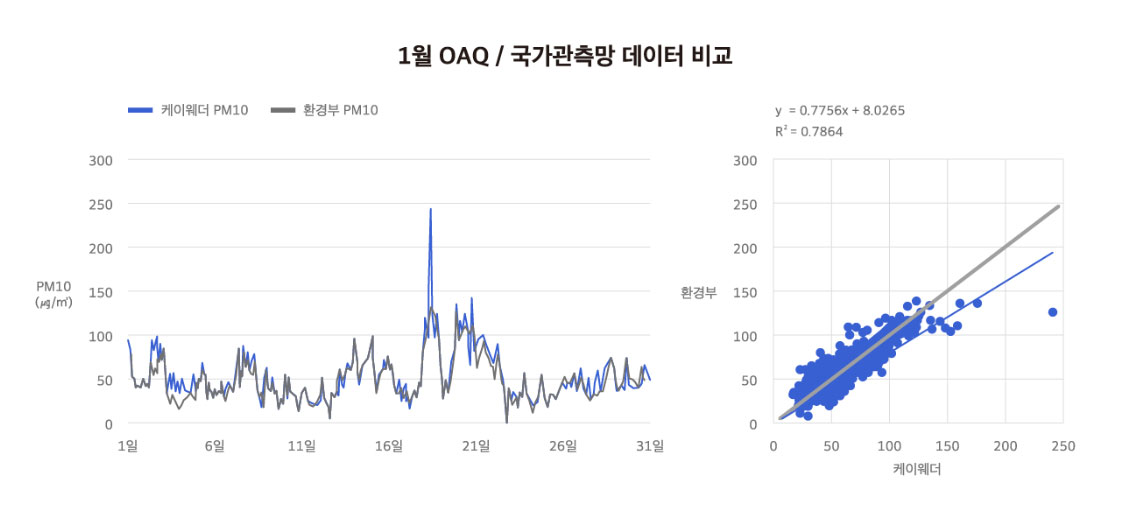
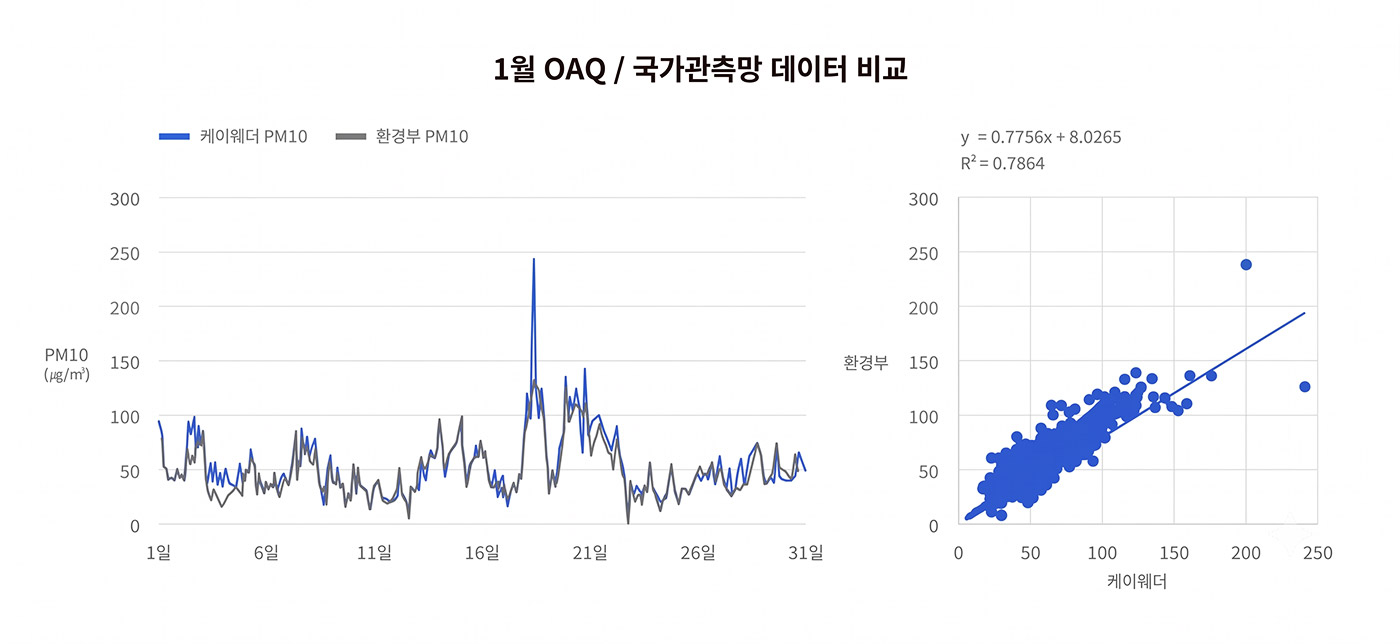
feat: 공기 측정 페이지 본문 구축 및 기상데이터 표 색상 조정
- 공기 측정(measure): OAQ 생활권 서비스·AI 정확도 차트·Airmap 빅데이터/스크린샷 4개 섹션 추가
- 본문 타이틀/서브카피를 AI 기상예보 규격(32px·20px/30px)으로 통일, 정렬 정리
- OAQ 배너 색상을 연혁 탭 활성색(#4762c5)으로, 박스 배경 #eef1fb 적용
- AI 차트·Airmap 이미지 교체(신규 치수 반영) 및 캐시 버전 쿼리(?v=2)
- 기상데이터 케이웨더 표를 #4762c5 계열로 변경, 기상청 표 헤더 흰색 글자 처리

diff --git a/src/app/data/measure/page.tsx b/src/app/data/measure/page.tsx
@@ -10,7 +10,15 @@ export const metadata: Metadata = {
   description: "케이웨더 공기 측정 데이터 — 국가관측망과 IoT 측정 기반 공기질 데이터.",
 };
 
-/* 본문 디자인 확정 전 — 상단 비주얼만 우선 구현 */
+const OAQ_PLACES = [
+  { img: "ad_img01", cap: "건물" },
+  { img: "ad_img02", cap: "건물" },
+  { img: "ad_img03", cap: "아파트" },
+  { img: "ad_img04", cap: "보육시설\n(유치원, 어린이집)" },
+  { img: "ad_img05", cap: "병원" },
+  { img: "ad_img06", cap: "도서관" },
+];
+
 export default function AirMeasurePage() {
   return (
     <>
@@ -23,11 +31,96 @@ export default function AirMeasurePage() {
           subtitle={"국가관측망과 IoT 측정 데이터를 기반으로\n신뢰도 높은 공기질 측정 데이터 제공"}
         />
 
-        <section className="company-intro">
-          <p className="company-intro__desc">기존내용 삽입</p>
+        <section className="oaq">
+          <h2 className="oaq__title">
+            실외공기측정기(OAQ)를 활용한 생활권 공기질 서비스
+          </h2>
+          <div className="oaq__desc">
+            <p>
+              국가 관측망으로 확인하기 어려운 생활권 단위의 실외공기 상태를 실시간으로 측정합니다.
+              건물·아파트·학교·병원 등 실제 생활 공간의 공기질 정보를 제공하고, 실내·실외 공기 비교를
+              통한 스마트 환기 정보까지 확인할 수 있습니다.
+            </p>
+          </div>
+
+          <div className="oaq__box">
+            <div className="oaq__banner">
+              <p className="oaq__banner-title">내가 사는 지점의 실외공기 정보</p>
+              <p className="oaq__banner-ex">
+                ex) ‘내집 앞 마당’, ‘우리 아파트놀이터’, ‘우리 학교 운동장’
+              </p>
+            </div>
+
+            <ul className="oaq__grid">
+              {OAQ_PLACES.map((p, i) => (
+                <li className="oaq__item" key={i}>
+                  <div className="oaq__thumb">
+                    <img
+                      src={`/assets/sub/${p.img}.jpg`}
+                      alt={`${p.cap.replace("\n", " ")} 실외공기측정기 설치 사례`}
+                    />
+                  </div>
+                  <span className="oaq__cap">{p.cap}</span>
+                </li>
+              ))}
+            </ul>
+          </div>
         </section>
 
-        <div className="sub-blank" aria-hidden="true" />
+        <section className="oaq-ai">
+          <h2 className="oaq__title">AI기술을 활용한 정확도 높은 데이터</h2>
+          <p className="oaq-ai__desc">
+            국가관측망 데이터와 AI(Deep learning) 기법을 활용하여 실외공기측정기(OAQ)를 지속적으로
+            보정, 보다 정확한 데이터를 만들고 있습니다.
+          </p>
+          <div className="oaq-ai__box">
+            <img
+              src="/assets/sub/ad_img07.jpg?v=2"
+              width={1400}
+              height={644}
+              alt="1월 OAQ / 국가관측망 데이터 비교 — 케이웨더 PM10과 환경부 PM10 시계열·상관관계 그래프 (y=0.7756x+8.0265, R²=0.7864)"
+            />
+          </div>
+        </section>
+
+        <section className="oaq-airmap">
+          <h2 className="oaq__title">실내/외 공기질 빅데이터 시각화 서비스</h2>
+          <div className="oaq-airmap__body">
+            <p>
+              동사는 30,000여 개의 실외/실내공기질 데이터를 비롯하여 다양한 목적으로 설치가 증가되는
+              모든 실외, 실내 공기측정기 데이터를 GIS 개념으로 통합적으로 관리하여야 합니다. 이를 위해서
+              대기오염물질, 풍향, 온도, 습도 등의 모든 공기요소를 Point Map, Flow Map, Heat Map으로
+              나타내는 시각화 기술을 통하여 고도화하여야 합니다. 해당 기술을 고도화하기 위해서는
+              실외/실내공기질 데이터를 수집, 가공 분석할 수 있는 빅데이터 플랫폼이 대용량의 시계열
+              데이터의 처리가 용이한 하둡 기반으로 안정적으로 확대 운영될 수 있는 기술과 다양한 시각화
+              기술이 적용된 공기지도(Airmap)이 필수적입니다.
+            </p>
+            <p>
+              {
+                "공기지도 중 Point Map은 대기오염물질의 측정값이 수치화되고, 그래프화되어 표출됩니다. Flow Map은 GIS를 기반으로 풍향/풍속에 대한 정보를 500m×500m 격자화한 데이터 레이어를 기반으로 산출하며, 데이터 미확보지역은 ’이중 선형 보간법‘을 통해 도출한 값을 실시간으로 시각화합니다.\nHeat Map은 GIS를 기반으로 미세먼지, 초미세먼지, 온도, 습도에 대한 정보를 500m×500m 격자화한 데이터 레이어를 기반으로 산출하며, 데이터 미확보 지역은 'IDW 보간법(Inverse Distance Weighted)' 또는 '크리깅 보간법(Kriging Interpolation)'을 통해 산출된 데이터를 실시간으로 시각화합니다."
+              }
+            </p>
+          </div>
+        </section>
+
+        <section className="oaq-air2">
+          <h2 className="oaq__title">실내외 공기질 시각화 Airmap 서비스</h2>
+          <div className="oaq-air2__box">
+            <img
+              src="/assets/sub/ad_subvisual.jpg?v=2"
+              width={1400}
+              height={673}
+              alt="케이웨더 Airmap — 실내외 공기질 빅데이터 시각화 서비스 화면 (Heat Map·Flow Map·측정소 현황)"
+            />
+          </div>
+          <div className="oaq-air2__body">
+            <p>
+              {
+                "이렇게 Point Map, Flow Map, Heat Map 격자화된 데이터 레이어 기반으로 저장된 모든 GIS 기반의 모든 데이터들은 레이어별, 측정요소별로 시공간에 따라 자유자재로 효과적으로 시각화되어 표출됨으로써 공간의 공기상태를 시계열로 분석, 예측하는데 효과적인 도구로 활용될 것입니다. 실외·실내 공기질 빅데이터 시각화 서비스를 통해 동사는 세계 유일의 전문 공기데이터플랫폼 기술 보유기업으로써 시장의 우위를 점하고 고부가가치의 공기데이터 유통시장을 창출할 것입니다.\n현재 빅데이터 시각화 서비스(Airmap)는 개발이 완료되었으며, 고객의 프로그램 사용 편의성 증대 및 데이터의 정확성 등을 높이기 위한 고도화 작업과정에 있습니다.\n이 서비스는 동사가 사업을 영위하면서 추가적으로 확보되는 공기질 데이터를 바탕으로 끊임없이 개선되어 향후 다양한 고객들의 니즈를 충족시킬 것으로 기대하고 있습니다."
+              }
+            </p>
+          </div>
+        </section>
       </main>
       <Footer />
     </>

diff --git a/src/components/sub/sub.css b/src/components/sub/sub.css
@@ -549,7 +549,7 @@
 }
 .wd-spec__table th,
 .wd-spec__table td {
-  border: 1px solid #b3d9e9;
+  border: 1px solid #c4cdec;
   padding: 9px 6px;
   text-align: center;
   line-height: 1.3;
@@ -558,19 +558,19 @@
 }
 .wd-spec__table th {
   height: 48px;
-  background: #76c5e3;
-  color: #143a4c;
+  background: #4762c5;
+  color: #fff;
   font-weight: 700;
 }
-.wd-spec__table .c1 { background: #d2eaf4; font-weight: 700; }
-.wd-spec__table .c2 { background: #eaf6fb; }
-.wd-spec__table .c3 { background: #f4fafd; }
+.wd-spec__table .c1 { background: #d4dcf3; font-weight: 700; }
+.wd-spec__table .c2 { background: #e8edf9; }
+.wd-spec__table .c3 { background: #f3f6fc; }
 
 /* 기상청 정보 표 — 라벤더 계열 */
 .wd-spec--kma { margin-bottom: 180px; }
 .wd-spec--kma .wd-spec__table th,
 .wd-spec--kma .wd-spec__table td { border-color: #bcc6e3; }
-.wd-spec--kma .wd-spec__table th { background: #8093cf; color: #1f2a44; }
+.wd-spec--kma .wd-spec__table th { background: #8093cf; color: #fff; }
 .wd-spec--kma .wd-spec__table .c1 { background: #dde3f2; }
 .wd-spec--kma .wd-spec__table .c2 { background: #e9edf7; }
 .wd-spec--kma .wd-spec__table .c3 { background: #f2f5fb; }
@@ -1081,4 +1081,212 @@
   .mobile-point__title { font-size: 22px; margin-top: 12px; }
   .mobile-point__desc { font-size: 16px; }
   .mobile-point__shot { margin-top: 28px; }
+}
+
+/* ── 공기 측정: 실외공기측정기(OAQ) 섹션 ── */
+.oaq {
+  width: min(1440px, calc(100% - 64px));
+  margin: 90px auto 0;
+  text-align: center;
+}
+/* 본문 타이틀·서브카피 — AI 기상예보(.ai-block) 규격에 통일: 타이틀 32px / 서브카피 20px·30px */
+.oaq__title {
+  font-family: "Pretendard Variable", Pretendard, sans-serif;
+  font-weight: 700;
+  font-size: 32px;
+  line-height: normal;
+  color: #222;
+  margin: 0;
+}
+.oaq__desc {
+  max-width: 980px;
+  margin: 21px auto 0;
+}
+.oaq__desc p {
+  margin: 0;
+  font-family: "Pretendard Variable", Pretendard, sans-serif;
+  font-size: 20px;
+  line-height: 30px;
+  color: #222;
+}
+.oaq__box {
+  margin-top: 72px;
+  padding: 56px;
+  background: #eef1fb;
+  border-radius: 24px;
+}
+.oaq__banner {
+  border-radius: 12px;
+  background: #4762c5;
+  padding: 30px 24px;
+  text-align: center;
+}
+.oaq__banner-title {
+  margin: 0;
+  font-family: "Pretendard Variable", Pretendard, sans-serif;
+  font-weight: 700;
+  font-size: 28px;
+  line-height: 1.3;
+  color: #fff;
+}
+.oaq__banner-ex {
+  margin: 10px 0 0;
+  font-family: "Pretendard Variable", Pretendard, sans-serif;
+  font-size: 20px;
+  line-height: 1.4;
+  color: #fff;
+}
+.oaq__grid {
+  list-style: none;
+  margin: 28px 0 0;
+  padding: 0;
+  display: grid;
+  grid-template-columns: repeat(6, 1fr);
+  gap: 16px;
+}
+.oaq__item {
+  display: flex;
+  flex-direction: column;
+  align-items: center;
+}
+.oaq__thumb {
+  width: 100%;
+  aspect-ratio: 5 / 4;
+  border-radius: 12px;
+  overflow: hidden;
+}
+.oaq__thumb img {
+  display: block;
+  width: 100%;
+  height: 100%;
+  object-fit: cover;
+}
+.oaq__cap {
+  margin-top: 14px;
+  font-family: "Pretendard Variable", Pretendard, sans-serif;
+  font-size: 18px;
+  line-height: 1.4;
+  color: #222;
+  text-align: center;
+  white-space: pre-line;
+}
+@media (max-width: 1100px) {
+  .oaq__title { font-size: 32px; }
+  .oaq__desc p { font-size: 17px; line-height: 27px; }
+  .oaq__box { padding: 40px; }
+  .oaq__banner-title { font-size: 22px; }
+  .oaq__banner-ex { font-size: 17px; }
+}
+@media (max-width: 920px) {
+  .oaq__grid { grid-template-columns: repeat(3, 1fr); gap: 20px 16px; }
+}
+@media (max-width: 640px) {
+  .oaq { width: calc(100% - 40px); margin-top: 60px; }
+  .oaq__title { font-size: 24px; }
+  .oaq__box { padding: 24px; border-radius: 18px; }
+  .oaq__banner { padding: 22px 16px; }
+  .oaq__grid { grid-template-columns: repeat(2, 1fr); }
+  .oaq__cap { font-size: 15px; }
+}
+
+/* ── 공기 측정: AI 정확도 데이터 / Airmap 섹션 ── */
+.oaq-ai,
+.oaq-airmap {
+  width: min(1440px, calc(100% - 64px));
+  margin: 120px auto 0;
+  text-align: center;
+}
+.oaq-ai__desc {
+  margin: 21px 0 0;
+  font-family: "Pretendard Variable", Pretendard, sans-serif;
+  font-size: 20px;
+  line-height: 30px;
+  color: #222;
+}
+.oaq-ai__box {
+  margin-top: 36px;
+  padding: 40px;
+  border: 1px solid #c4d2f3;
+  border-radius: 24px;
+}
+.oaq-ai__box img {
+  display: block;
+  margin: 0 auto;
+  width: 100%;
+  max-width: 1400px;
+  height: auto;
+}
+.oaq-airmap__body {
+  max-width: 1300px;
+  margin: 30px auto 0;
+  text-align: left;
+  display: flex;
+  flex-direction: column;
+  gap: 26px;
+}
+.oaq-airmap__body p {
+  margin: 0;
+  font-family: "Pretendard Variable", Pretendard, sans-serif;
+  font-size: 20px;
+  line-height: 1.7;
+  color: #333;
+  white-space: pre-line;
+  word-break: keep-all;
+}
+@media (max-width: 1100px) {
+  .oaq-ai,
+  .oaq-airmap { margin-top: 90px; }
+  .oaq-ai__desc,
+  .oaq-airmap__body p { font-size: 17px; }
+  .oaq-ai__box { padding: 24px; }
+}
+@media (max-width: 640px) {
+  .oaq-ai,
+  .oaq-airmap { width: calc(100% - 40px); margin-top: 64px; }
+  .oaq-ai__box { padding: 16px; border-radius: 18px; }
+  .oaq-airmap__body { gap: 20px; }
+}
+
+/* ── 공기 측정: Airmap 시각화 서비스 (마지막) ── */
+.oaq-air2 {
+  width: min(1440px, calc(100% - 64px));
+  margin: 120px auto 350px;
+  text-align: center;
+}
+.oaq-air2__box {
+  margin-top: 44px;
+  padding: 56px;
+  border-radius: 24px;
+  background: #eef1fb;
+}
+.oaq-air2__box img {
+  display: block;
+  margin: 0 auto;
+  width: 100%;
+  max-width: 1500px;
+  height: auto;
+  border-radius: 8px;
+}
+.oaq-air2__body {
+  max-width: 1300px;
+  margin: 40px auto 0;
+  text-align: left;
+}
+.oaq-air2__body p {
+  margin: 0;
+  font-family: "Pretendard Variable", Pretendard, sans-serif;
+  font-size: 20px;
+  line-height: 1.7;
+  color: #333;
+  white-space: pre-line;
+  word-break: keep-all;
+}
+@media (max-width: 1100px) {
+  .oaq-air2 { margin-top: 90px; }
+  .oaq-air2__box { padding: 28px; }
+  .oaq-air2__body p { font-size: 17px; }
+}
+@media (max-width: 640px) {
+  .oaq-air2 { width: calc(100% - 40px); margin-top: 64px; margin-bottom: 120px; }
+  .oaq-air2__box { padding: 16px; border-radius: 18px; }
 }
